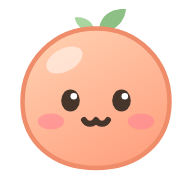
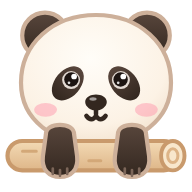
Make Mongle a panda cub with its paws over a log
The mascot in public/favicon.svg is now a fluffy panda cub, drawn from a
photo of one resting its front paws on a log: a cream face, cocoa ears,
eye patches and paws, glossy eyes, pink cheeks and a small log. A latte
outline keeps the ears and paws visible on dark backgrounds, and the
drawing still reads as a panda at 16 px.

- npm run icons redraws favicon.ico, the app icons and og-image.png.
- The README previews show the new hero; the five READMEs, DESIGN.md
  and CLAUDE.md describe the panda. The name Mongle (몽글이) stays.

Claude-Session: https://claude.ai/code/session_0127hMf9jfyXDPBsDP4fe3Lg

diff --git a/CLAUDE.md b/CLAUDE.md
@@ -5,7 +5,7 @@
 - 콘텐츠(사실 정보와 화면 문구)는 전부 `src/data/profile.ts`에만 있습니다. JSX에 사실 정보를 직접 쓰지 마세요.
 - 사이트와 GitHub 프로필은 다섯 언어(English 기본, 简体中文, 繁體中文, 日本語, 한국어)입니다. 문구는 `Localized`(`{ en, 'zh-CN', 'zh-HK', ja, ko }`)로 다섯 언어를 모두 채웁니다. 논문 제목·저자·학회명, 연구실, LinkedIn, GitHub 같은 고유 명사는 번역하지 않습니다. 언어는 `?lang=` → `localStorage`의 `juminwho:lang` → 영어 순서로 정하며, 이 키와 매개변수는 `src/lib/i18n.ts`와 `index.html`의 인라인 스크립트가 함께 씁니다. 저장소 README도 `README.md`(영어)와 `README.<code>.md` 네 개가 있으니, 내용을 바꾸면 다섯 개를 함께 고칩니다.
 - 디자인 규칙은 `docs/DESIGN.md`, 토큰은 `src/styles/tokens.css`를 따릅니다. 몽글몽글·코지: 크림/코코아 색, 파스텔 톤, 둥근 쿠션 패널, 느리고 작은 모션(모션 줄이기 존중).
-- 유지해야 하는 아이덴티티 요소: 이름 호버(또는 스크롤) 시 "JUMIN WHO?" 전환, 1998-07-10 기준 실시간 나이 카운터, 마스코트 몽글이(`public/favicon.svg`), Jumin 시계.
+- 유지해야 하는 아이덴티티 요소: 이름 호버(또는 스크롤) 시 "JUMIN WHO?" 전환, 1998-07-10 기준 실시간 나이 카운터, 마스코트 몽글이(통나무에 앞발을 걸친 아기 판다, `public/favicon.svg`), Jumin 시계.
 - Jumin 시계(`src/sections/JuminTime.tsx`): Local | Jumin 스위치로 방문자 시간과 Jumin 시간(KST)을 보여 주고, KST 일과표(`profile.ts`의 `juminTime.routine`)로 상태를 정합니다. 모든 상태 앞에는 반드시 "maybe…"(다른 언어에서는 `juminTime.maybe`의 같은 뜻의 말)를 붙입니다. 일과표 자체와 "until …" 같은 다음 상태 시각은 화면에 보여 주지 않고, 장소 줄·하루 리본·시차 줄도 두지 않습니다(자리를 줄이기 위해 뺌). 일과표를 바꾸면 `scripts/snapshots.mjs`의 `routineCases`도 맞춥니다.
 - 변경 후 `npm run lint`와 `npm run build`가 통과해야 하며, `npm run snapshots`로 375px/1280px, 라이트/다크, 모든 언어에서 확인합니다.
 - 마스코트·팔레트·이름·소개를 바꾸면 `npm run icons`로 아이콘과 OG 이미지를 다시 만듭니다.

diff --git a/README.ja.md b/README.ja.md
@@ -14,7 +14,7 @@
 
 <picture>
   <source media="(prefers-color-scheme: dark)" srcset="docs/preview-dark.jpg" />
-  <img src="docs/preview-light.jpg" alt="最初の画面：クリーム色の背景に名前とプロフィールカード、その横に桜の下で撮った写真と桃のマスコット" />
+  <img src="docs/preview-light.jpg" alt="最初の画面：クリーム色の背景に名前とプロフィールカード、その横に桜の下で撮った写真とパンダのマスコット" />
 </picture>
 
 ## 特徴
@@ -24,7 +24,7 @@
 - 1998-07-10 から小数点以下 8 桁までリアルタイムで数える年齢カウンター。
 - ジュミンは今、何時？ 「ローカル | ジュミン」の切り替えスイッチが付いた時計カードが、ジュミンの時間（KST）か訪問者の時間を表示し、画面には出さない平日・週末の日課表から、ジュミンが今たぶん何をしているかを教えてくれます。たぶん… 仕事中、出勤準備中、おやすみ中、または観測されるまであらゆる状態が重なり合った、量子の重ね合わせ中。
 - 5 つの言語：English（既定）、简体中文、繁體中文、日本語、한국어。ヘッダーのメニューで選ぶと選択を覚えておき、`?lang=ja` のようなリンクでその言語のページを直接開けます。
-- 桃のお餅のマスコット、Mongle。ファビコン、アプリアイコン、リンクプレビュー（Open Graph）画像はすべてこの絵から作られます。
+- 丸太に前足をかけた、もふもふの子パンダのマスコット、Mongle。ファビコン、アプリアイコン、リンクプレビュー（Open Graph）画像はすべてこの絵から作られます。
 - 地名の前の丸い国旗ステッカー：ジュミンが拠点にしている場所と、各論文を発表した場所。
 - OS の設定に従い、自分で選ぶとそれを覚えるテーマ切り替え、メールアドレスのコピーボタン、印刷用スタイル。
 - モーション軽減の設定、スクリーンリーダー、キーボード操作に配慮し、すべての文字が WCAG AA 以上のコントラストを持ちます。

diff --git a/README.zh-HK.md b/README.zh-HK.md
@@ -14,7 +14,7 @@
 
 <picture>
   <source media="(prefers-color-scheme: dark)" srcset="docs/preview-dark.jpg" />
-  <img src="docs/preview-light.jpg" alt="網站第一個畫面：奶油色背景上的名字和資料卡，旁邊是在櫻花樹下拍的相片和桃子吉祥物" />
+  <img src="docs/preview-light.jpg" alt="網站第一個畫面：奶油色背景上的名字和資料卡，旁邊是在櫻花樹下拍的相片和熊貓吉祥物" />
 </picture>
 
 ## 特色
@@ -24,7 +24,7 @@
 - 由 1998-07-10 起即時計算、準確至小數點後 8 位的年齡計數器。
 - Jumin 那邊現在幾點？附有「本地 | Jumin」開關的時鐘卡會顯示 Jumin 的時間（KST）或訪客的時間，並根據不會在頁面上顯示的平日與週末作息表，告訴你 Jumin 現在也許在做甚麼：也許……在工作、在準備上班、在睡覺，或者處於量子疊加態——在被觀測之前，所有狀態同時存在。
 - 五種語言：English（預設）、简体中文、繁體中文、日本語和한국어，可在頁首的選單中選擇。選擇會被記住，`?lang=zh-HK` 這樣的連結可以直接以該語言開啟頁面。
-- 桃子麻糬吉祥物 Mongle。網站圖示（favicon）、應用程式圖示和連結預覽（Open Graph）圖片都出自這幅畫。
+- 把前爪搭在圓木上的毛茸茸熊貓寶寶吉祥物 Mongle。網站圖示（favicon）、應用程式圖示和連結預覽（Open Graph）圖片都出自這幅畫。
 - 地名前的圓形國旗貼紙：Jumin 所在的地方，以及每篇論文發表的地方。
 - 跟隨操作系統設定、手動選擇後會記住的主題切換，複製電郵按鈕，以及打印樣式。
 - 尊重「減少動態效果」設定、屏幕閱讀器和鍵盤導航，所有文字的對比度都達到 WCAG AA 或以上。

diff --git a/README.zh-CN.md b/README.zh-CN.md
@@ -14,7 +14,7 @@
 
 <picture>
   <source media="(prefers-color-scheme: dark)" srcset="docs/preview-dark.jpg" />
-  <img src="docs/preview-light.jpg" alt="首屏：奶油色背景上的名字和信息卡片，旁边是在樱花树下拍的照片和桃子吉祥物" />
+  <img src="docs/preview-light.jpg" alt="首屏：奶油色背景上的名字和信息卡片，旁边是在樱花树下拍的照片和熊猫吉祥物" />
 </picture>
 
 ## 特点
@@ -24,7 +24,7 @@
 - 从 1998-07-10 起实时计算、精确到小数点后 8 位的年龄计数器。
 - Jumin 那边现在几点？带有“本地 | Jumin”开关的时钟卡片会显示 Jumin 的时间（KST）或访客的时间，并根据不在页面上显示的工作日与周末作息表，告诉你 Jumin 现在也许在做什么：也许……在工作、在准备上班、在睡觉，或者处于量子叠加态——在被观测之前，所有状态同时存在。
 - 五种语言：English（默认）、简体中文、繁體中文、日本語和한국어，可在页头的菜单中选择。选择会被记住，`?lang=zh-CN` 这样的链接可以直接用该语言打开页面。
-- 桃子麻糬吉祥物 Mongle。网站图标（favicon）、应用图标和链接预览（Open Graph）图片都出自这幅画。
+- 把前爪搭在圆木上的毛茸茸熊猫宝宝吉祥物 Mongle。网站图标（favicon）、应用图标和链接预览（Open Graph）图片都出自这幅画。
 - 地名前的圆形国旗贴纸：Jumin 所在的地方，以及每篇论文发表的地方。
 - 跟随操作系统设置、手动选择后会记住的主题切换，复制邮箱按钮，以及打印样式。
 - 尊重“减弱动态效果”设置、屏幕阅读器和键盘导航，所有文字的对比度都达到 WCAG AA 或更高。

diff --git a/README.ko.md b/README.ko.md
@@ -14,7 +14,7 @@
 
 <picture>
   <source media="(prefers-color-scheme: dark)" srcset="docs/preview-dark.jpg" />
-  <img src="docs/preview-light.jpg" alt="첫 화면: 크림색 배경 위의 이름과 정보 카드, 그 옆에 벚꽃 아래에서 찍은 사진과 복숭아 마스코트" />
+  <img src="docs/preview-light.jpg" alt="첫 화면: 크림색 배경 위의 이름과 정보 카드, 그 옆에 벚꽃 아래에서 찍은 사진과 판다 마스코트" />
 </picture>
 
 ## 기능
@@ -28,8 +28,8 @@
   중, 출근 준비 중, 자는 중, 또는 관측되기 전까지 모든 상태가 겹쳐 있는 양자 중첩 중.
 - 다섯 가지 언어: English(기본), 简体中文, 繁體中文, 日本語, 한국어. 헤더의 메뉴에서 고르면 그 선택을
   기억하고, `?lang=ko` 같은 링크로 원하는 언어의 페이지를 바로 열 수 있습니다.
-- 복숭아 모찌 마스코트 몽글이. 파비콘, 앱 아이콘, 링크 미리보기(Open Graph) 이미지가 모두 이 그림에서
-  나옵니다.
+- 통나무에 앞발을 걸친 복슬복슬한 아기 판다 마스코트 몽글이. 파비콘, 앱 아이콘, 링크 미리보기(Open Graph)
+  이미지가 모두 이 그림에서 나옵니다.
 - 장소 앞의 동그란 국기 스티커: 주민의 위치와 각 논문을 발표한 곳.
 - 운영체제 설정을 따르다가 직접 고르면 그 값을 기억하는 테마 토글, 이메일 복사 버튼, 인쇄용 스타일.
 - 모션 줄이기, 스크린리더, 키보드 탐색을 존중하고, 모든 글자가 WCAG AA 이상의 대비를 갖습니다.

diff --git a/docs/DESIGN.md b/docs/DESIGN.md
@@ -103,8 +103,11 @@ AI 연구자이자 박사과정생 조주민의 한 페이지 프로필입니다
   않습니다. 스크린리더는 언제나 실제 이름을 읽습니다. 터치에서는 스크롤로만 바뀝니다.
 - **실시간 나이.** 1998-07-10 00:00 KST부터 센 나이를 소수점 8자리로 보여 줍니다. 100ms마다 DOM에 직접 그리고
   React는 다시 렌더링하지 않습니다. 모션 줄이기에서는 1초마다 갱신합니다. 스크린리더에는 만 나이만 알려 줍니다.
-- **마스코트 몽글이.** 새싹이 달린 복숭아 모찌입니다. 원본은 `public/favicon.svg` 한 파일이고, 파비콘, 헤더, 사진
-  옆, 시계 스위치, 푸터, 앱 아이콘, OG 이미지에 모두 같은 그림을 씁니다.
+- **마스코트 몽글이.** 통나무에 앞발을 걸친 복슬복슬한 아기 판다입니다. 털은 크림색, 귀와 눈 둘레와 앞발은 짙은
+  코코아색(순수한 검정이 아님)이고, 볼에는 파스텔 분홍 볼터치가 있습니다. 모든 윤곽에 라테색 테두리를 둘러서
+  어두운 배경에서도 귀와 앞발이 묻히지 않습니다. 원본은 `public/favicon.svg` 한 파일이고, 파비콘, 헤더, 사진 옆,
+  시계 스위치, 푸터, 앱 아이콘, OG 이미지에 모두 같은 그림을 씁니다. 16px에서도 판다 얼굴로 읽혀야 하니 작은
+  장식을 더하지 않습니다.
 - **Jumin 시계.** 아래 "Jumin 시계" 절을 따릅니다. 모든 상태 앞에는 "maybe…"(또는 페이지 언어에서 같은 뜻의
   말)를 붙입니다.
 

diff --git a/README.md b/README.md
@@ -15,7 +15,7 @@ English · [简体中文](README.zh-CN.md) · [繁體中文](README.zh-HK.md) ·
 
 <picture>
   <source media="(prefers-color-scheme: dark)" srcset="docs/preview-dark.jpg" />
-  <img src="docs/preview-light.jpg" alt="The first screen: the name and a fact card on a cream background, next to a photo under cherry blossoms and a peach mascot" />
+  <img src="docs/preview-light.jpg" alt="The first screen: the name and a fact card on a cream background, next to a photo under cherry blossoms and a panda mascot" />
 </picture>
 
 ## Features
@@ -31,8 +31,8 @@ English · [简体中文](README.zh-CN.md) · [繁體中文](README.zh-HK.md) ·
 - Five languages: English (the default), 简体中文, 繁體中文, 日本語 and 한국어, picked from a menu
   in the header. The choice is remembered, and a link such as `?lang=ja` opens the page in that
   language.
-- Mongle the mascot, a peach mochi that becomes the favicon, the app icons and the link-preview
-  (Open Graph) image.
+- Mongle the mascot, a fluffy panda cub with its paws over a log, which becomes the favicon, the
+  app icons and the link-preview (Open Graph) image.
 - Round flag stickers in front of places: where Jumin is based, and where each paper was presented.
 - A theme toggle that follows the operating system until you pick one, a copy-email button and
   print styles.
